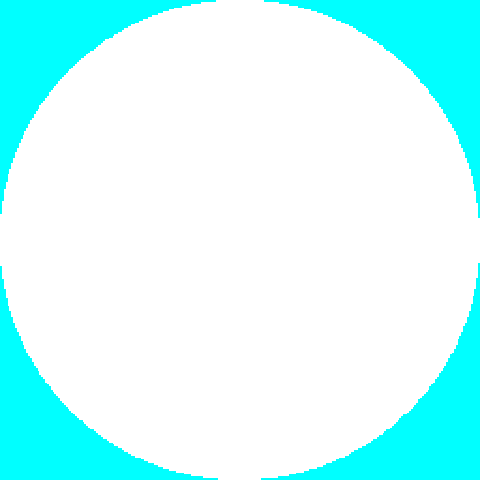
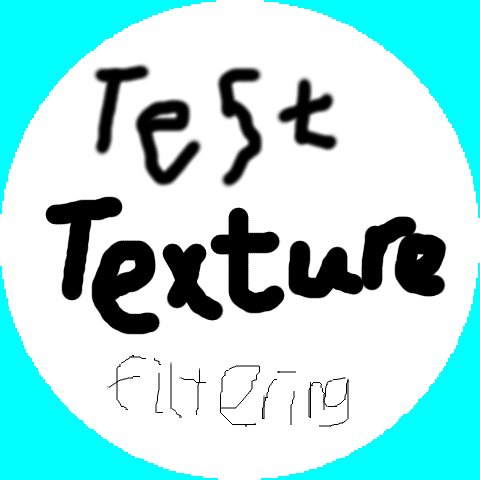
matrix transformations

diff --git a/c++/opengl/lazyfooTutorial/src/LUtil.cpp b/c++/opengl/lazyfooTutorial/src/LUtil.cpp
@@ -5,13 +5,13 @@
 #include "LTexture.hpp"
 
 int gColorMode = COLOR_MODE_MONO;
+int gTransformationCombo = 0;
 
 GLfloat gAngle = 0.0f;
 GLfloat gCameraX = 0.0f,
 				gCameraY = 0.0f;
 
 LTexture gTexture;
-LFRect gStretchRect = {0.0f, 0.0f, SCREEN_WIDTH, SCREEN_HEIGHT};
 GLenum gFiltering = GL_LINEAR;
 
 bool initGL(void) {
@@ -54,16 +54,21 @@ bool initGL(void) {
 }
 
 bool loadMedia(void) {
-	if (!gTexture.loadTextureFromFileWithColorKey("img/texture.png", 000, 255, 255)) {
+	if (!gTexture.loadTextureFromFileWithColorKey("img/circleWithAlpha.png", 000, 255, 255)) {
 		fprintf(stderr, "Unable to load circle with alpha texture!\n");
 		return false;
 	}
+
+	/*if (!gTexture.loadTextureFromFile("img/texture.png")) {
+		fprintf(stderr, "Unable to load texture!\n");
+		return false;
+	}*/
 
 	return true;
 }
 
 void update(void) {
-	gAngle += 360.0f / SCREEN_FPS;
+	gAngle += 180.0f / SCREEN_FPS;
 
 	if (gAngle > 360.0f) {
 		gAngle -= 360.0f;
@@ -73,9 +78,54 @@ void update(void) {
 void render(void) {
 	glClear(GL_COLOR_BUFFER_BIT);
 
+	glLoadIdentity();
+
 	glMatrixMode(GL_MODELVIEW);
 	glPopMatrix();
 	glPushMatrix();
+
+	switch(gTransformationCombo) {
+		case 0:
+			glTranslatef(SCREEN_WIDTH / 2.0f, SCREEN_HEIGHT / 2.0f, 0.0f);
+			glRotatef(gAngle, 0.0f, 0.0f, 1.0f);
+			glScalef(0.5f, 0.5f, 0.0f);
+			glTranslatef(gTexture.imageWidth() / -2.0f, gTexture.imageHeight() / -2.0f, 0.0f);
+
+			break;
+
+		case 1:
+			glTranslatef(SCREEN_WIDTH / 2.0f, SCREEN_HEIGHT / 2.0f, 0.0f);
+			glRotatef(gAngle, 0.0f, 0.0f, 1.0f);
+			glTranslatef(gTexture.imageWidth() / -2.0f, gTexture.imageHeight() / -2.0f, 0.0f);
+			glScalef(0.5f, 0.5f, 0.0f);
+
+			break;
+
+		case 2:
+			glScalef(0.5f, 0.5f, 0.0f);
+			glTranslatef(SCREEN_WIDTH / 2.0f, SCREEN_HEIGHT / 2.0f, 0.0f);
+			glRotatef(gAngle, 0.0f, 0.0f, 1.0f);
+			glTranslatef(gTexture.imageWidth() / -2.0f, gTexture.imageHeight() / -2.0f, 0.0f);
+
+			break;
+
+		case 3:
+			glTranslatef(SCREEN_WIDTH / 2.0f, SCREEN_HEIGHT / 2.0f, 0.0f);
+			glRotatef(gAngle, 0.0f, 0.0f, 1.0f);
+			glScalef(0.5f, 0.5f, 0.0f);
+
+			break;
+
+		case 4:
+			glScalef(0.5f, 0.5f, 0.0f);
+			glTranslatef(SCREEN_WIDTH / 2.0f, SCREEN_HEIGHT / 2.0f, 0.0f);
+			glRotatef(gAngle, 0.0f, 0.0f, 1.0f);
+			glTranslatef(gTexture.imageWidth() / -2.0f, gTexture.imageHeight() / -2.0f, 0.0f);
+
+			break;
+	}
+
+	gTexture.render(0.0f, 0.0f);
 
 	gDrawQuad(SCREEN_WIDTH / 2.0f, SCREEN_HEIGHT / 2.0f,
 			SCREEN_WIDTH / 4.0f, SCREEN_HEIGHT / 4.0f, 1.0f, 0.0f, 0.0f);
@@ -88,9 +138,6 @@ void render(void) {
 
 	gDrawQuad(-SCREEN_WIDTH, 0.0f,
 			SCREEN_WIDTH / 4.0f, SCREEN_HEIGHT / 4.0f, 1.0f, 0.0f, 1.0f);
-
-	glColor4f(1.0f, 1.0f, 1.0f, 0.5f);
-	gTexture.render(0.0f, 0.0f, NULL, &gStretchRect, gAngle);
 
 	glutSwapBuffers();
 }
@@ -139,6 +186,16 @@ void handleKeys(unsigned char key, int x, int y) {
 		glBindTexture(GL_TEXTURE_2D, (GLuint)NULL);
 	}
 
+	if (key == 'f') {
+		gAngle = 0.0f;
+
+		gTransformationCombo++;
+
+		if (gTransformationCombo > 4) {
+			gTransformationCombo = 0;
+		}
+	}
+
 	glMatrixMode(GL_MODELVIEW);
 	glPopMatrix();
 	glLoadIdentity();
@@ -148,14 +205,14 @@ void handleKeys(unsigned char key, int x, int y) {
 	glPushMatrix();
 }
 
-void gDrawQuad(GLfloat x, GLfloat y, GLfloat sizeX, GLfloat sizeY, GLfloat R, GLfloat G, GLfloat B) {
+void gDrawQuad(GLfloat x, GLfloat y, GLfloat sizeX, GLfloat sizeY, GLfloat R, GLfloat G, GLfloat B, GLfloat A) {
 	glTexEnvi(GL_TEXTURE_ENV, GL_TEXTURE_ENV_MODE, GL_MODULATE);
 
 	if (gColorMode == COLOR_MODE_MONO) {
 		glTranslatef(x, y, 0.0f);
 
 		glBegin(GL_QUADS);
-			glColor3f(R, G, B);
+			glColor4f(R, G, B, A);
 			glVertex2f(-sizeX, -sizeY);
 			glVertex2f(sizeX, -sizeY);
 			glVertex2f(sizeX, sizeY);
@@ -165,10 +222,10 @@ void gDrawQuad(GLfloat x, GLfloat y, GLfloat sizeX, GLfloat sizeY, GLfloat R, GL
 		glTranslatef(x, y, 0.0f);
 
 		glBegin(GL_QUADS);
-			glColor3f(0.0f, 0.0f, 1.0f); glVertex2f(-sizeX, -sizeY);
-			glColor3f(0.0f, 1.0f, 0.0f); glVertex2f(sizeX, -sizeY);
-			glColor3f(1.0f, 0.0f, 0.0f); glVertex2f(sizeX, sizeY);
-			glColor3f(1.0f, 1.0f, 0.0f); glVertex2f(-sizeX, sizeY);
+			glColor4f(0.0f, 0.0f, 1.0f, A); glVertex2f(-sizeX, -sizeY);
+			glColor4f(0.0f, 1.0f, 0.0f, A); glVertex2f(sizeX, -sizeY);
+			glColor4f(1.0f, 0.0f, 0.0f, A); glVertex2f(sizeX, sizeY);
+			glColor4f(1.0f, 1.0f, 0.0f, A); glVertex2f(-sizeX, sizeY);
 		glEnd();
 	}
 }

diff --git a/c++/opengl/lazyfooTutorial/src/LTexture.cpp b/c++/opengl/lazyfooTutorial/src/LTexture.cpp
@@ -242,8 +242,6 @@ void LTexture::freeTexture(void) {
 
 void LTexture::render(GLfloat x, GLfloat y, LFRect *clip) {
 	if (mTextureID != 0) {
-		glLoadIdentity();
-
 		GLfloat texTop = 0.0f;
 		GLfloat	texBottom = (GLfloat)mImageHeight / (GLfloat)mTextureHeight;
 		GLfloat texLeft = 0.0f;
@@ -262,22 +260,16 @@ void LTexture::render(GLfloat x, GLfloat y, LFRect *clip) {
 			quadHeight = clip->h;
 		}
 
-		if (stretch != NULL) {
-			quadWidth = stretch->w;
-			quadHeight = stretch->h;
-		}
-
-		glTranslatef(x + quadWidth / 2.0f, y + quadHeight / 2.0f, 0.0f);
-		glRotatef(degrees, 0.0f, 0.0f, 1.0f);
+		glTranslatef(x, y, 0.0f);
 
 		glTexEnvi(GL_TEXTURE_ENV, GL_TEXTURE_ENV_MODE, GL_REPLACE);
 		glBindTexture(GL_TEXTURE_2D, mTextureID);
 
 		glBegin(GL_QUADS);
-			glTexCoord2f(texLeft, texTop);			glVertex2f(-quadWidth / 2.0f, -quadHeight / 2.0f);
-			glTexCoord2f(texRight, texTop);			glVertex2f(quadWidth / 2.0f, -quadHeight / 2.0f);
-			glTexCoord2f(texRight, texBottom);	glVertex2f(quadWidth / 2.0f, quadHeight / 2.0f);
-			glTexCoord2f(texLeft, texBottom);		glVertex2f(-quadWidth / 2.0f, quadHeight / 2.0f);
+			glTexCoord2f(texLeft, texTop);			glVertex2f(0.0f, 0.0f);
+			glTexCoord2f(texRight, texTop);			glVertex2f(quadWidth, 0.0f);
+			glTexCoord2f(texRight, texBottom);	glVertex2f(quadWidth, quadHeight);
+			glTexCoord2f(texLeft, texBottom);		glVertex2f(0.0f, quadHeight);
 		glEnd();
 	}
 }

diff --git a/c++/opengl/lazyfooTutorial/src/LUtil.hpp b/c++/opengl/lazyfooTutorial/src/LUtil.hpp
@@ -19,6 +19,6 @@ void update(void);
 void render(void);
 void handleKeys(unsigned char key, int x, int y);
 
-void gDrawQuad(GLfloat x, GLfloat y, GLfloat sizeX, GLfloat sizeY, GLfloat R, GLfloat G, GLfloat B);
+void gDrawQuad(GLfloat x, GLfloat y, GLfloat sizeX, GLfloat sizeY, GLfloat R, GLfloat G, GLfloat B, GLfloat A = 1.0f);
 
 #endif

diff --git a/c++/opengl/lazyfooTutorial/src/LTexture.hpp b/c++/opengl/lazyfooTutorial/src/LTexture.hpp
@@ -15,7 +15,7 @@ class LTexture {
 		bool lock(void);
 		bool unlock(void);
 
-		void render(GLfloat x, GLfloat y, LFRect *clip = NULL, LFRect *stretch = NULL, GLfloat degrees = 0);
+		void render(GLfloat x, GLfloat y, LFRect *clip = NULL);
 		void freeTexture(void);
 
 		bool loadPixelsFromFile(std::string path);
